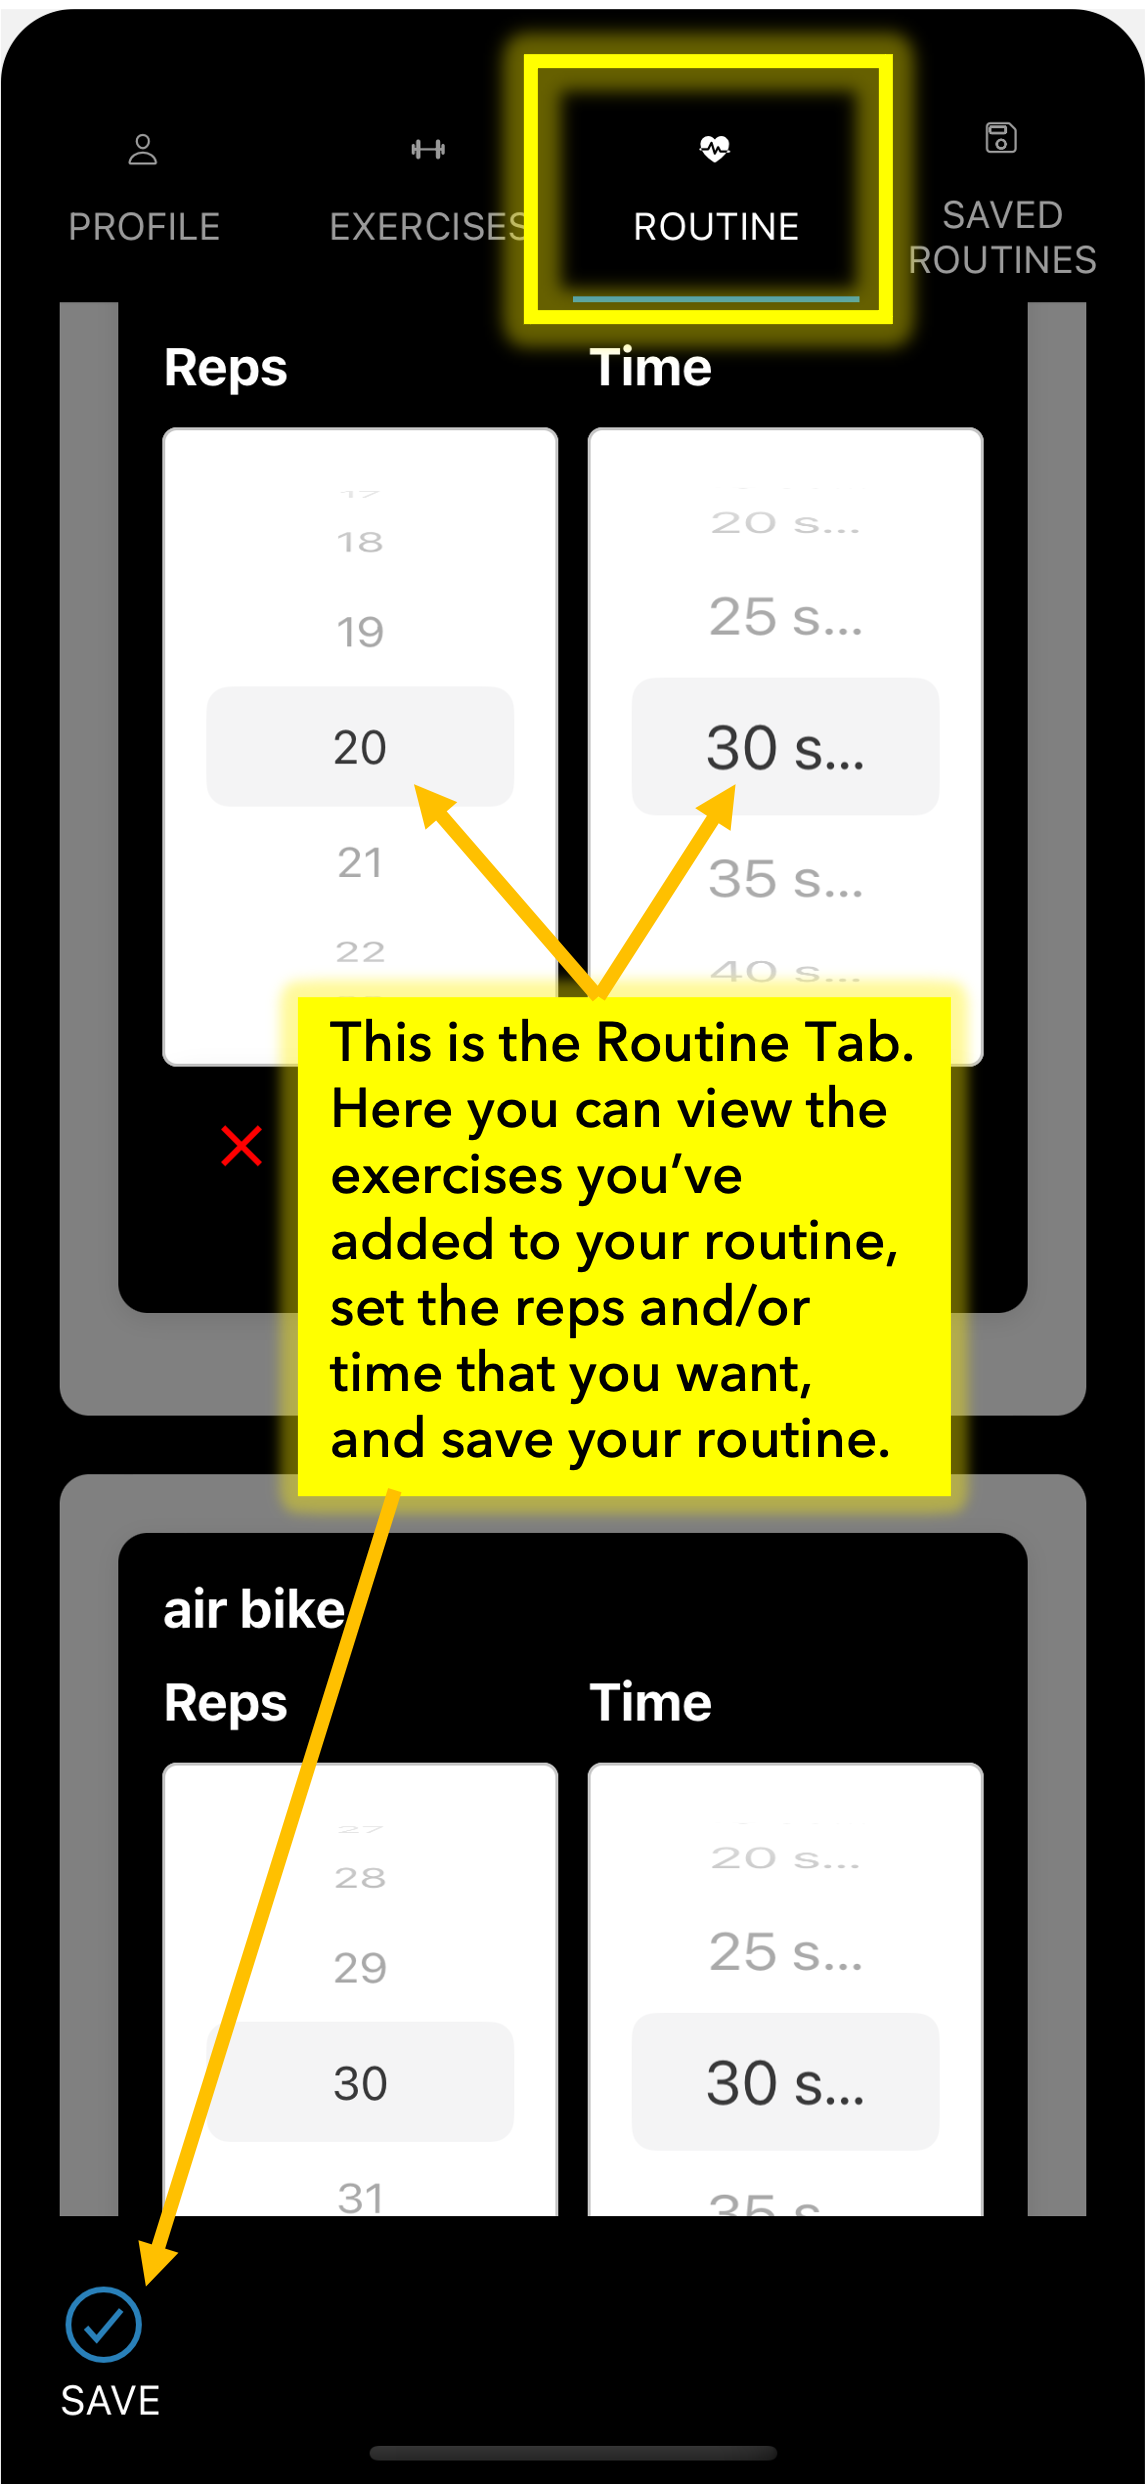
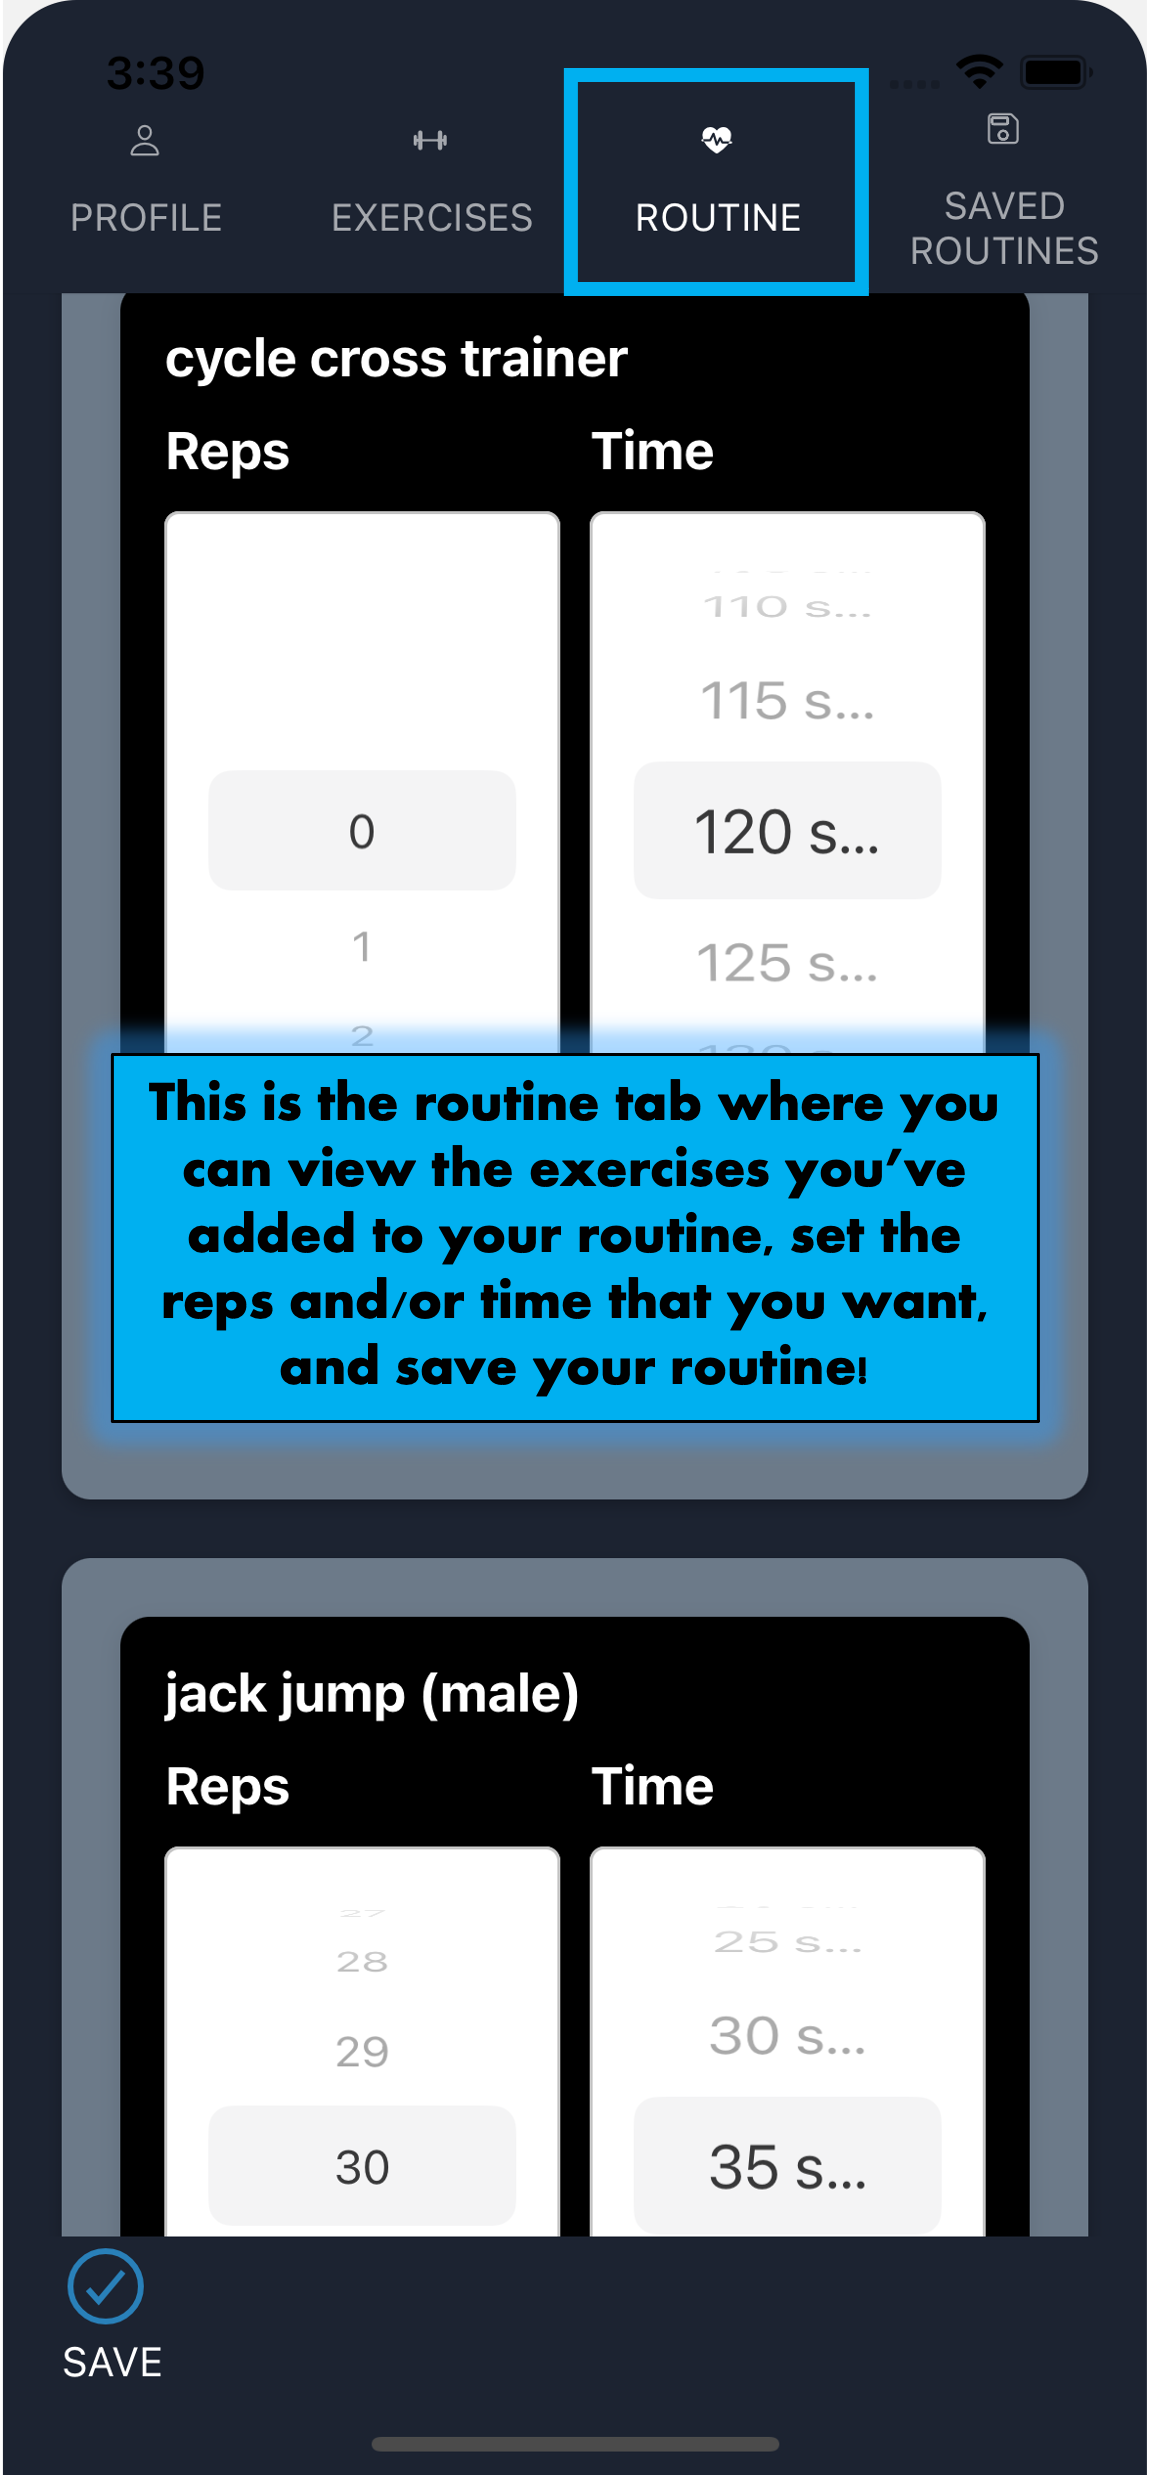
added sharing functionality, cleaned up styles with colors, restyled screens, added new intro images

diff --git a/src/config/styles/RoutineItemStyles.js b/src/config/styles/RoutineItemStyles.js
@@ -1,12 +1,13 @@
 import { StyleSheet } from "react-native";
+import colors from "../colors";
 
 const styles = StyleSheet.create({
   container: {
-    backgroundColor: "#000000",
+    backgroundColor: colors.sandy,
     borderRadius: 10,
     padding: 15,
     marginBottom: 15,
-    shadowColor: "#000000",
+    shadowColor: colors.black,
     shadowOffset: { width: 0, height: 2 },
     shadowOpacity: 0.1,
     shadowRadius: 4,
@@ -16,7 +17,7 @@ const styles = StyleSheet.create({
     fontSize: 18,
     fontWeight: "bold",
     marginBottom: 10,
-    color: "#FFFFFF",
+    color: colors.white,
   },
   setsRepsContainer: {
     flexDirection: "row",
@@ -27,11 +28,11 @@ const styles = StyleSheet.create({
     marginRight: 10,
   },
   repsInput: {
-    borderColor: "#C4C4C4",
+    borderColor: colors.black,
     borderWidth: 1,
     borderRadius: 5,
     paddingHorizontal: 5,
-    backgroundColor: "#FFFFFF",
+    backgroundColor: colors.white,
   },
   pickerItem: {
     fontSize: 16,
@@ -40,11 +41,11 @@ const styles = StyleSheet.create({
     flex: 1,
   },
   timeInput: {
-    borderColor: "#C4C4C4",
+    borderColor: colors.black,
     borderWidth: 1,
     borderRadius: 5,
     paddingHorizontal: 5,
-    backgroundColor: "#FFFFFF",
+    backgroundColor: colors.white,
   },
 });
 

diff --git a/src/screens/SavedRoutinesScreen.js b/src/screens/SavedRoutinesScreen.js
@@ -250,10 +250,19 @@ function SavedRoutinesScreen({ navigation }) {
                   </View>
                 );
               } else if (item.type === "shared") {
+                const sharedByUser = item.sharedBy
+                  ? db
+                      .collection("users")
+                      .doc(sharedBy)
+                      .get()
+                      .then((doc) => doc.data().username)
+                  : null;
                 routineView = (
                   <View style={styles.routineContainer}>
                     <Text style={styles.listHeader}>Shared Routine</Text>
+
                     <Text style={styles.routineName}>{item.name}</Text>
+
                     <View style={styles.sharedIcon}>
                       <TouchableOpacity
                         onPress={() =>

diff --git a/src/config/styles/IntroductionStyles.js b/src/config/styles/IntroductionStyles.js
@@ -1,9 +1,10 @@
 import { StyleSheet } from "react-native";
+import colors from "../colors";
 
 const styles = StyleSheet.create({
   container: {
     flex: 1,
-    backgroundColor: "black",
+    backgroundColor: colors.black,
   },
   slide: {
     flex: 1,
@@ -24,14 +25,14 @@ const styles = StyleSheet.create({
     marginBottom: 50,
   },
   button: {
-    backgroundColor: "#008CBA",
+    backgroundColor: colors.brightblue,
     borderRadius: 50,
     padding: 15,
     paddingHorizontal: 40,
     alignItems: "center",
     justifyContent: "center",
     elevation: 3,
-    shadowColor: "#000",
+    shadowColor: colors.black,
     shadowOffset: {
       width: 0,
       height: 2,

diff --git a/src/components/Modals.js b/src/components/Modals.js
@@ -1,0 +1,10 @@
+import { View, Text } from "react-native";
+import React from "react";
+
+export default function Modals() {
+  return (
+    <View>
+      <Text>Modals</Text>
+    </View>
+  );
+}
